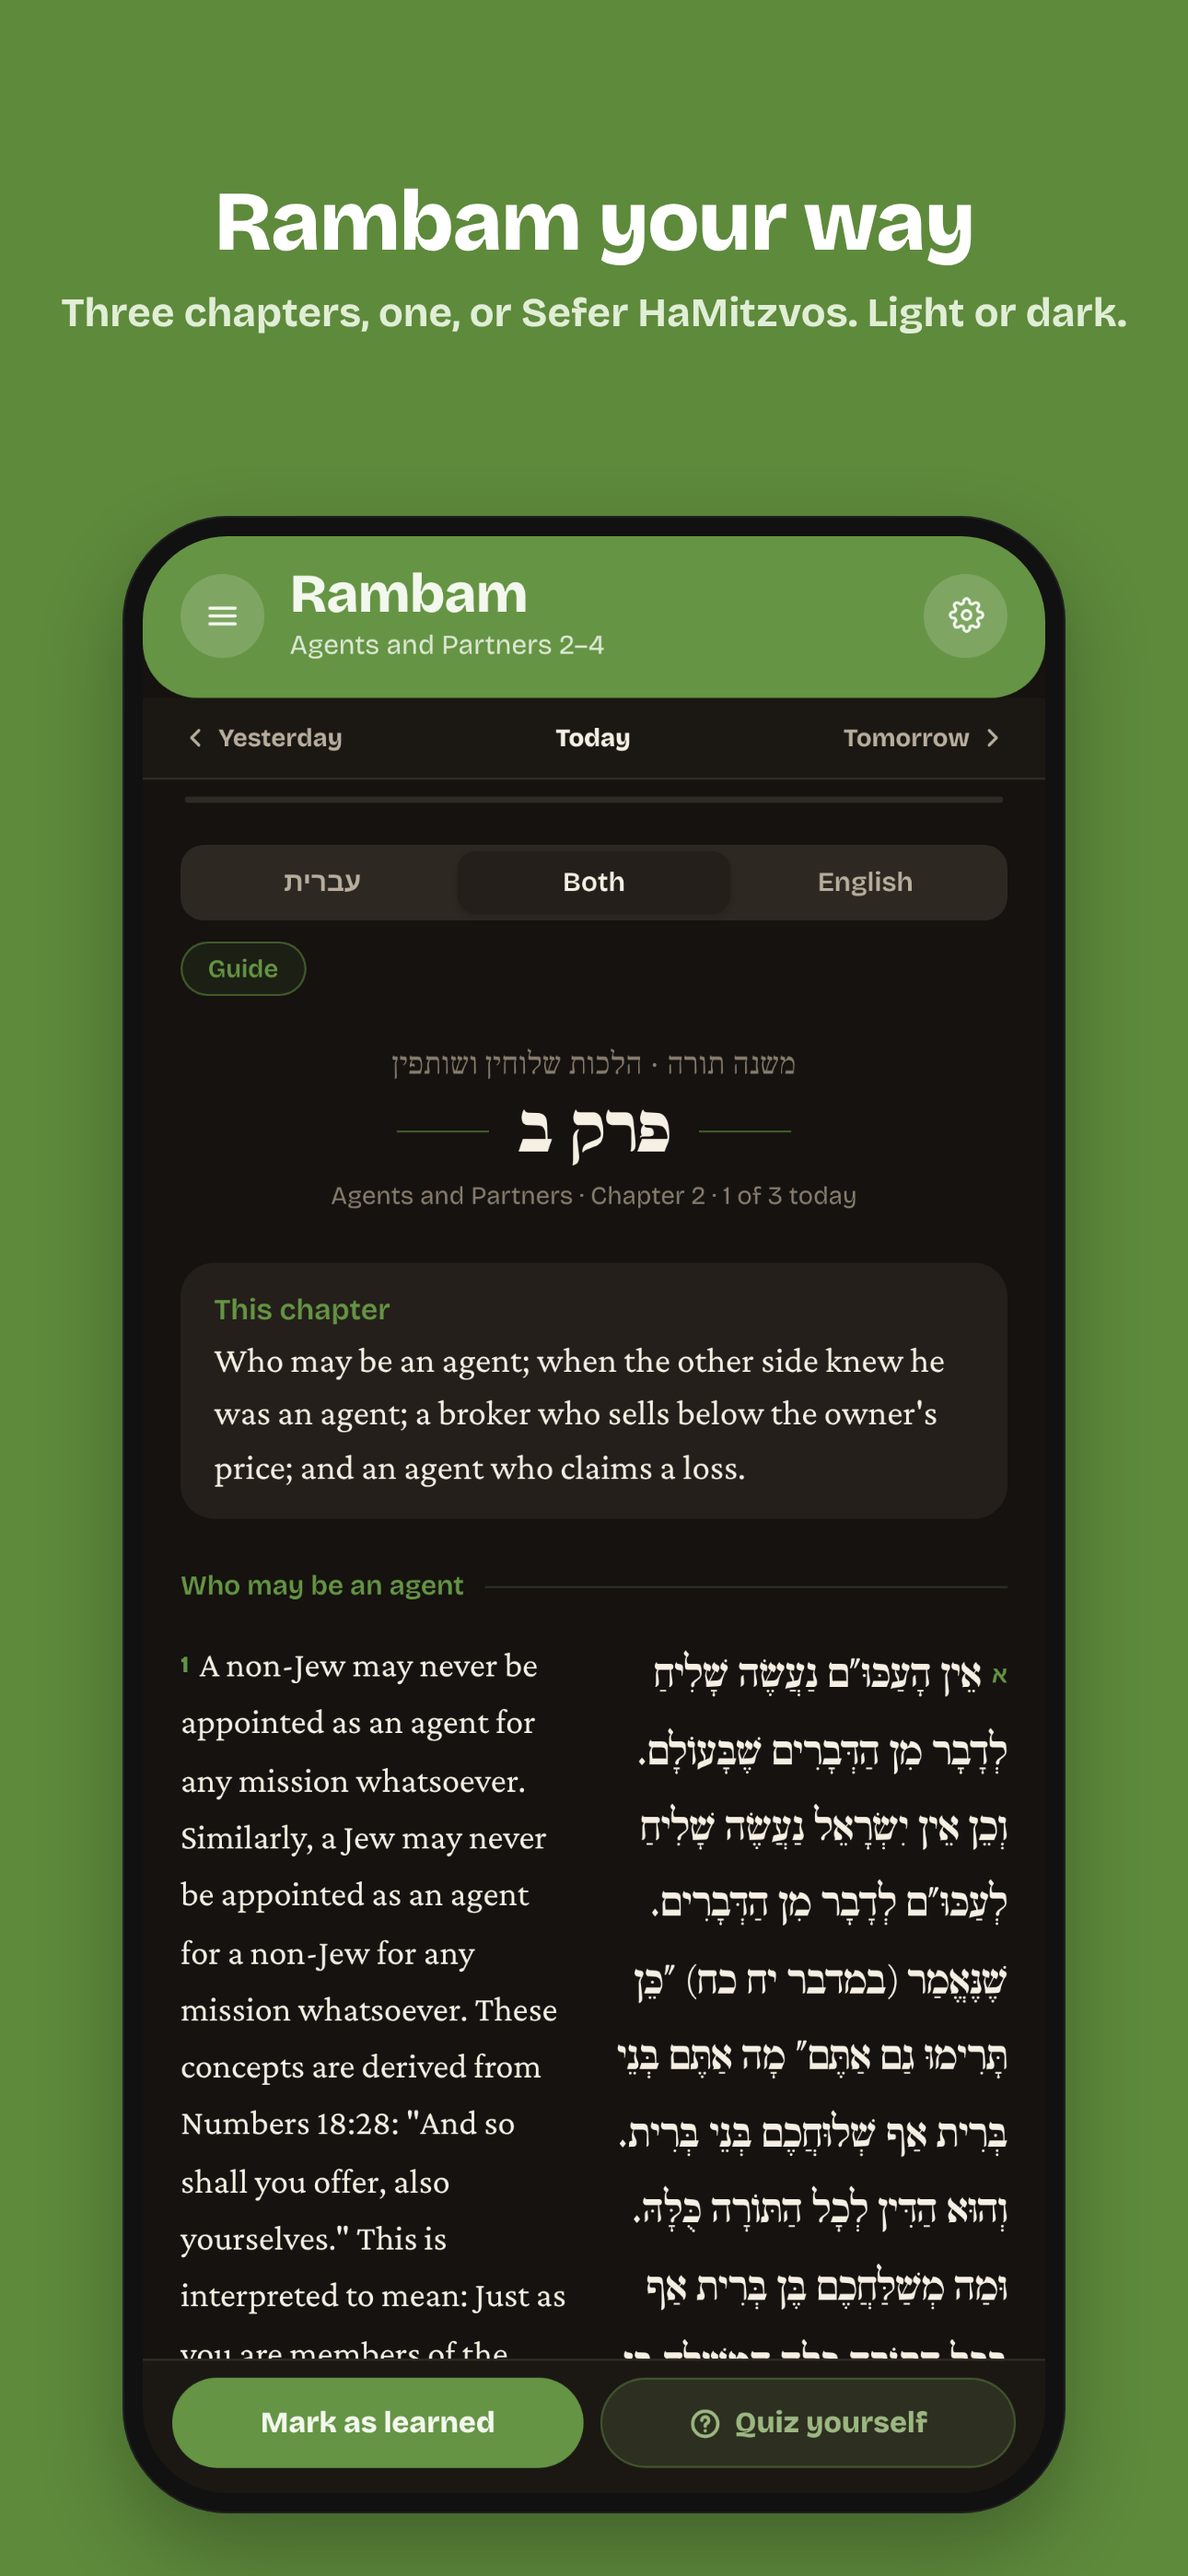
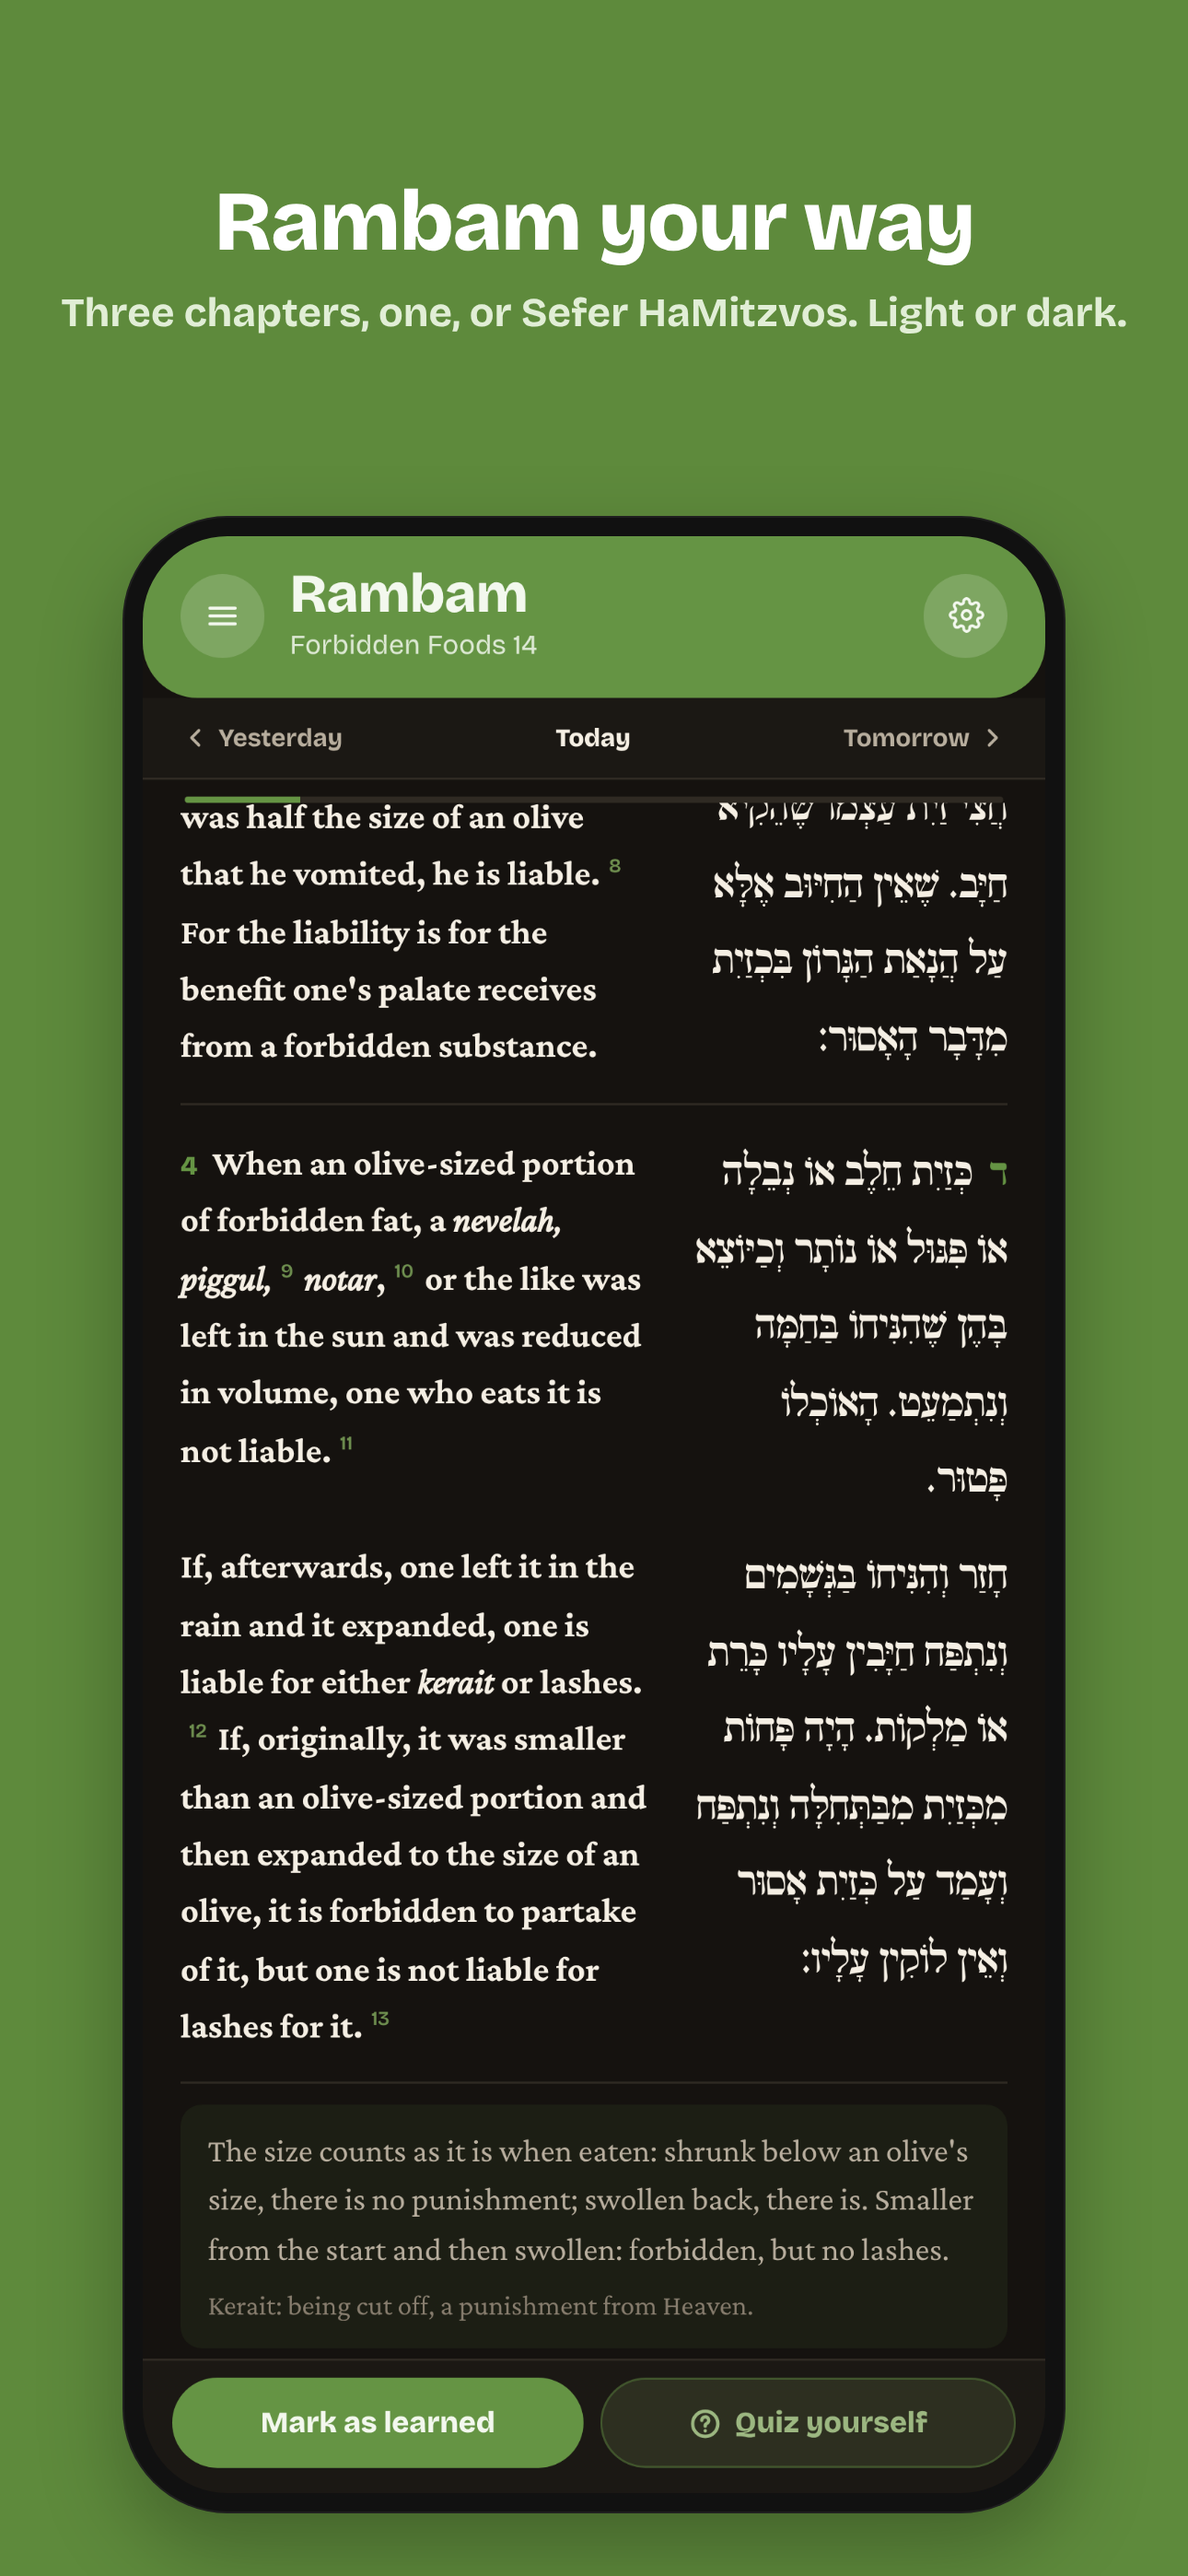
Store screenshots: Tanya and Rambam in their current style (#94)
Screenshot 5 (iPhone, iPad, Google) shows the Tanya's plain-English
bridges; screenshot 10 (iPhone, iPad) the Rambam's paragraphs matched in
Hebrew and English, with a plain-words note. The other screens are
unchanged.

Claude-Session: https://claude.ai/code/session_01LRUPatthgLGU828ZuACoyq

diff --git a/docs/store-listing.md b/docs/store-listing.md
@@ -28,7 +28,7 @@ Upload them in number order. The first three are the ones people see in search r
 | 9 | Hayom Yom, every day | The original, with a clear English translation | Hayom Yom (Apple only) |
 | 10 | Rambam your way | Three chapters, one, or Sefer HaMitzvos. Light or dark. | Rambam, dark mode (Apple only) |
 
-Google takes 8: numbers 1 to 8. The screens show 11 November 2026 (1 Kislev, Toldos), fixed in `tools/store/shoot.mjs` (`DAY`) so the Review questions match the day's Chumash.
+Google takes 8: numbers 1 to 8. The screens show 11 November 2026 (1 Kislev, Toldos), fixed in `tools/store/shoot.mjs` (`DAY`) so the Review questions match the day's Chumash; Tanya (5) shows 21 November and Rambam (10) 24 November (`SHIFT`), days with the guides in their current style: the Tanya's bridges, and the Rambam's matched paragraphs and plain-words notes (on the one-chapter track that day, Forbidden Foods 14).
 
 **Why these.** People who search for a Chitas app already learn, or want to. What they want to know in three seconds: does it have *today's* portions, worked out for me (1); is it the real text, the way I learn it, Hebrew and English with Rashi (2); and does it fit my day (3 and 4). Two things answer that, and both are reasons to have the app rather than a website: it keeps your place when you stop, and it reminds you at your own time for each part, saying what's waiting and opening right to it. So they come early. Then: will I understand it (5), and did it stay with me (6). After that, what no other app does for them: their own family's Tehillim (7) and a quiet record of what they've learned (8), with Hayom Yom (9) and the Rambam tracks (10) on Apple.
 
